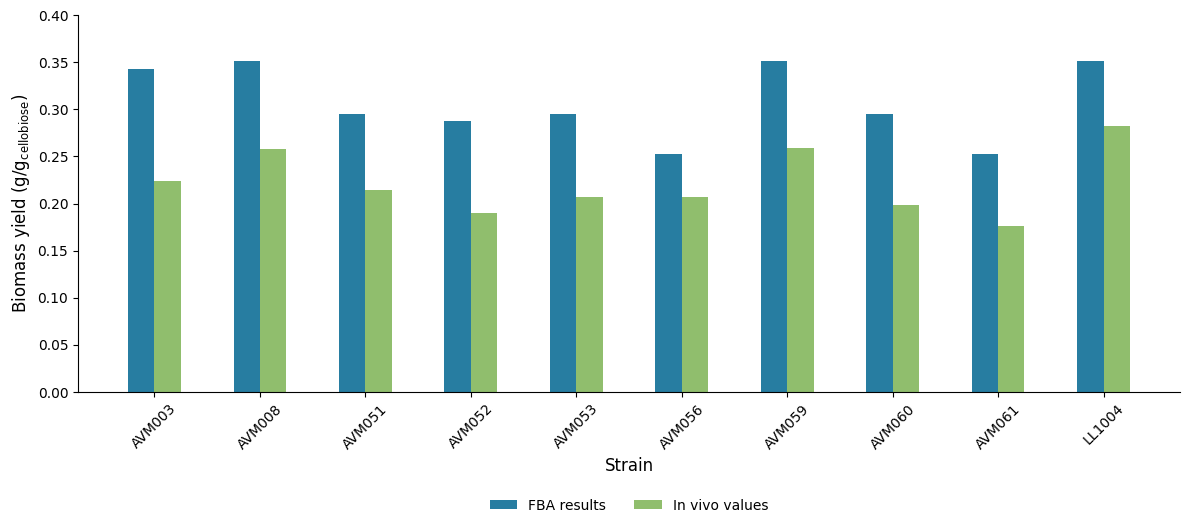
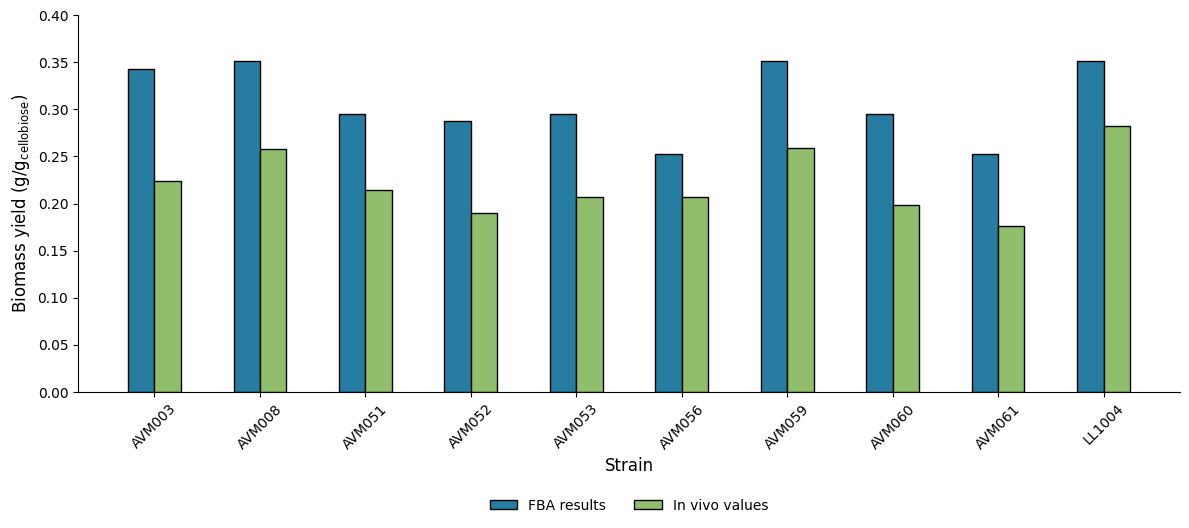
Change some graphs

diff --git a/Scripts/Metabolite yields at fixed biomass/plot_metabolite_yields.py b/Scripts/Metabolite yields at fixed biomass/plot_metabolite_yields.py
@@ -1,0 +1,65 @@
+import json
+import matplotlib.pyplot as plt
+
+def load_json(file: str) -> dict:
+    """
+    Load a JSON file.
+
+    Parameters
+    ----------
+    file: str
+        The file to load.
+
+    Returns
+    -------
+    dict
+        The loaded JSON file.
+    """
+    with open(file, "r") as f:
+        data = json.load(f)
+
+    return data
+
+metabolite_yields = load_json(r"Results\Metabolite yields at fixed biomass\metabolite_yields.json")
+
+strains: list = list(metabolite_yields.keys())
+
+metabolites: list = ["Ethanol", "Acetate", "Formate", "Pyruvate", "Malate", "Lactate"]
+
+colors: dict = {
+    "Ethanol": "#277da1",
+    "Acetate": "#4d908e",
+    "Formate": "#90be6d",
+    "Pyruvate": "#f9c74f",
+    "Malate": "#f8961e",
+    "Lactate": "#f94144"
+}
+
+plt.figure(figsize=(12, 5.5))
+
+width = 0.5/len(metabolites)
+
+for i, strain in enumerate(strains):
+    for j, metabolite in enumerate(metabolite_yields[strain].keys()):
+        plt.bar(
+            i + (j-2)*width - width/2,  # Center the bars
+            metabolite_yields[strain][metabolite]["max"],
+            color=colors[metabolites[j]],
+            edgecolor="black",
+            width=width,
+            label=metabolites[j] if i == 0 else None
+        )
+
+ax = plt.gca()
+ax.spines['top'].set_visible(False)   # Remove top border
+ax.spines['right'].set_visible(False)  # Remove left border
+
+plt.xticks(range(len(strains)), strains, rotation=45)
+plt.xlabel("Strain", fontsize=12)
+plt.ylabel(r"Yield (g/$\mathrm{g}_\mathrm{cellobiose}$)", fontsize=12)
+plt.legend(loc="upper center", bbox_to_anchor=(0.5, -0.25), ncol=3, frameon=False)
+plt.ylim(0, 14)
+plt.tight_layout()
+
+output_path = r"Results\Metabolite yields at fixed biomass\Metabolite yields.png"
+plt.savefig(output_path, format="png", bbox_inches="tight")

diff --git a/Scripts/Metabolite yields at fixed biomass/calc_metabolite_yields.py b/Scripts/Metabolite yields at fixed biomass/calc_metabolite_yields.py
@@ -92,9 +92,10 @@ if __name__ == '__main__':
         fva_results = flux_variability_analysis(strain_model, reaction_list=reactions, fraction_of_optimum=1.0)
         print("FVA successfully completed for " + strain + ".")
 
+        # Divide results by the cellobiose uptake rate to get the yields in mmol/mmol
         results[strain] = {
-            reaction: {"min": fva_results.loc[reaction, "minimum"]/2.92144383597262, "max": fva_results.loc[reaction, "maximum"]/2.92144383597262} for reaction in reactions
+            reaction: {"min": fva_results.loc[reaction, "minimum"], "max": fva_results.loc[reaction, "maximum"]} for reaction in reactions
         }
 
-    with open(r"Results\Yields\Metabolites\metabolite_yields.json", "w") as file:
+    with open(r"Results\Metabolite yields at fixed biomass\metabolite_yields.json", "w") as file:
         json.dump(results, file, indent=4)

diff --git a/Results/Biomass yields/biomass_yield.py b/Results/Biomass yields/biomass_yield.py
@@ -15,8 +15,8 @@ width = 0.25  # Bar width
 
 # Create the plot
 plt.figure(figsize=(12, 5.5))
-plt.bar(x - width/2, values, color="#277da1", width=width, label="FBA results")
-plt.bar(x + width/2, in_vivo_values, color="#90be6d", width=width, label="In vivo values")
+plt.bar(x - width/2, values, color="#277da1", edgecolor="black", width=width, label="FBA results")
+plt.bar(x + width/2, in_vivo_values, color="#90be6d", edgecolor="black", width=width, label="In vivo values")
 
 ax = plt.gca()
 ax.spines['top'].set_visible(False)   # Remove top border
